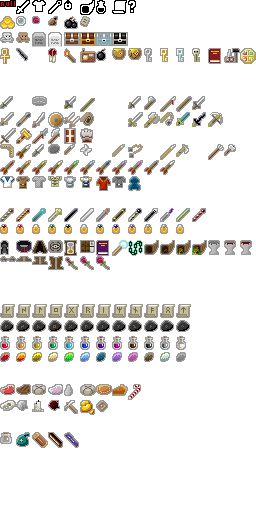
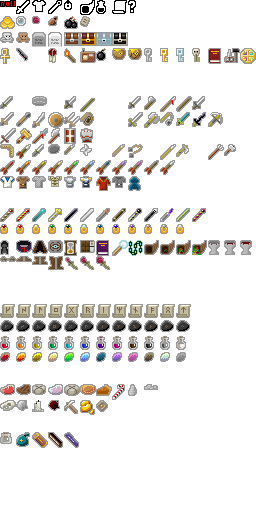
v0.7.0: Blandfruit now always uses potion effects, leaves behind chunks.

Changed region(s): [[0.25, 0.75, 0.625, 0.7812]]

diff --git a/core/src/main/java/com/shatteredpixel/shatteredpixeldungeon/items/food/Blandfruit.java b/core/src/main/java/com/shatteredpixel/shatteredpixeldungeon/items/food/Blandfruit.java
@@ -24,11 +24,7 @@ package com.shatteredpixel.shatteredpixeldungeon.items.food;
 import com.shatteredpixel.shatteredpixeldungeon.Challenges;
 import com.shatteredpixel.shatteredpixeldungeon.Dungeon;
 import com.shatteredpixel.shatteredpixeldungeon.ShatteredPixelDungeon;
-import com.shatteredpixel.shatteredpixeldungeon.actors.buffs.Buff;
-import com.shatteredpixel.shatteredpixeldungeon.actors.buffs.EarthImbue;
-import com.shatteredpixel.shatteredpixeldungeon.actors.buffs.FireImbue;
 import com.shatteredpixel.shatteredpixeldungeon.actors.buffs.Hunger;
-import com.shatteredpixel.shatteredpixeldungeon.actors.buffs.ToxicImbue;
 import com.shatteredpixel.shatteredpixeldungeon.actors.hero.Hero;
 import com.shatteredpixel.shatteredpixeldungeon.items.Item;
 import com.shatteredpixel.shatteredpixeldungeon.items.Recipe;
@@ -98,29 +94,27 @@ public class Blandfruit extends Food {
 
 		if (action.equals( AC_EAT ) && potionAttrib != null){
 
-			if (potionAttrib instanceof PotionOfFrost) {
-				GLog.i(Messages.get(this, "ice_msg"));
-				FrozenCarpaccio.effect(hero);
-			} else if (potionAttrib instanceof PotionOfLiquidFlame){
-				GLog.i(Messages.get(this, "fire_msg"));
-				Buff.affect(hero, FireImbue.class).set(FireImbue.DURATION);
-			} else if (potionAttrib instanceof PotionOfToxicGas) {
-				GLog.i(Messages.get(this, "toxic_msg"));
-				Buff.affect(hero, ToxicImbue.class).set(ToxicImbue.DURATION);
-			} else if (potionAttrib instanceof PotionOfParalyticGas) {
-				GLog.i(Messages.get(this, "para_msg"));
-				Buff.affect(hero, EarthImbue.class, EarthImbue.DURATION);
-			} else {
-				potionAttrib.apply(hero);
-			}
+			potionAttrib.apply(hero);
 
 		}
 	}
 
 	@Override
 	public String desc() {
-		if (potionAttrib== null) return super.desc();
-		else return Messages.get(this, "desc_cooked");
+		if (potionAttrib== null) {
+			return super.desc();
+		} else {
+			String desc = Messages.get(this, "desc_cooked") + "\n\n";
+			if (potionAttrib instanceof PotionOfFrost
+				|| potionAttrib instanceof PotionOfLiquidFlame
+				|| potionAttrib instanceof PotionOfToxicGas
+				|| potionAttrib instanceof PotionOfParalyticGas) {
+				desc += Messages.get(this, "desc_throw");
+			} else {
+				desc += Messages.get(this, "desc_eat");
+			}
+			return desc;
+		}
 	}
 
 	@Override
@@ -197,9 +191,9 @@ public class Blandfruit extends Food {
 				potionAttrib instanceof PotionOfFrost ||
 				potionAttrib instanceof PotionOfLevitation ||
 				potionAttrib instanceof PotionOfPurity) {
-			
-			Dungeon.level.press( cell, null, true );
+
 			potionAttrib.shatter( cell );
+			Dungeon.level.drop(new Chunks(), cell).sprite.drop();
 			
 		} else {
 			super.onThrow( cell );
@@ -295,6 +289,19 @@ public class Blandfruit extends Food {
 			
 			return new Blandfruit().cook((Seed) ingredients.get(1));
 		}
+	}
+
+	public static class Chunks extends Food {
+
+		{
+			stackable = true;
+			image = ItemSpriteSheet.BLAND_CHUNKS;
+
+			energy = Hunger.STARVING;
+
+			bones = true;
+		}
+
 	}
 
 }

diff --git a/core/src/main/java/com/shatteredpixel/shatteredpixeldungeon/sprites/ItemSpriteSheet.java b/core/src/main/java/com/shatteredpixel/shatteredpixeldungeon/sprites/ItemSpriteSheet.java
@@ -458,21 +458,23 @@ public class ItemSpriteSheet {
 	public static final int STEAK       = FOOD+1;
 	public static final int OVERPRICED  = FOOD+2;
 	public static final int CARPACCIO   = FOOD+3;
-	public static final int BLANDFRUIT  = FOOD+4;
-	public static final int RATION      = FOOD+5;
-	public static final int PASTY       = FOOD+6;
-	public static final int PUMPKIN_PIE = FOOD+7;
-	public static final int CANDY_CANE  = FOOD+8;
+	public static final int RATION      = FOOD+4;
+	public static final int PASTY       = FOOD+5;
+	public static final int PUMPKIN_PIE = FOOD+6;
+	public static final int CANDY_CANE  = FOOD+7;
+	public static final int BLANDFRUIT  = FOOD+8;
+	public static final int BLAND_CHUNKS= FOOD+9;
 	static{
 		assignItemRect(MEAT,        15, 11);
 		assignItemRect(STEAK,       15, 11);
 		assignItemRect(OVERPRICED,  14, 11);
 		assignItemRect(CARPACCIO,   15, 11);
-		assignItemRect(BLANDFRUIT,  9,  12);
 		assignItemRect(RATION,      16, 12);
 		assignItemRect(PASTY,       16, 11);
 		assignItemRect(PUMPKIN_PIE, 16, 12);
 		assignItemRect(CANDY_CANE,  13, 16);
+		assignItemRect(BLANDFRUIT,  9,  12);
+		assignItemRect(BLAND_CHUNKS,14, 6);
 	}
 
 	private static final int QUEST  =                                       xy(1, 26);  //32 slots
